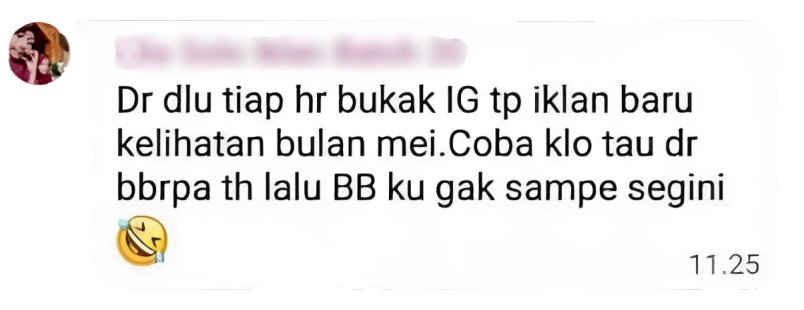
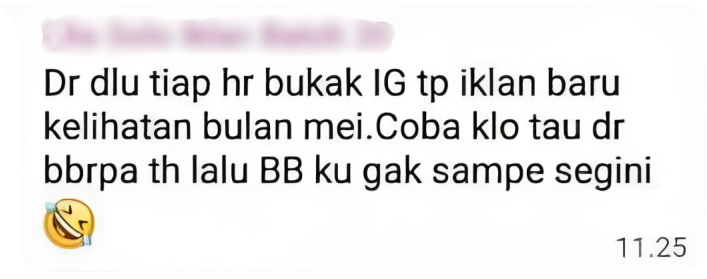
addition testimoni chat

diff --git a/media.css b/media.css
@@ -47,7 +47,6 @@
   .testimoni-chat{
     justify-content: flex-start;
     row-gap: 2rem;
-    padding-bottom: 5rem;
   }
   .about-txt-container{
     padding-bottom: 3rem;
@@ -198,7 +197,13 @@
     height: 8rem;
   }
   .chat2{
-    height: 11rem;
+    height: 14rem;
+  }
+  .chat3{
+    height: 14rem;
+  }
+  .chat4{
+    height: 18rem;
   }
   #kelas{
     padding: 2rem 1rem;
@@ -254,5 +259,17 @@
     padding: 0.8rem 1rem;
     font-size: 15px;
     margin: 0 1rem;
+  }
+  .chat1{
+    height: 4rem;
+  }
+  .chat2{
+    height: 10rem;
+  }
+  .chat3{
+    height: 10rem;
+  }
+  .chat4{
+    height: 14rem;
   }
 }

diff --git a/style.css b/style.css
@@ -415,12 +415,13 @@ nav li span {
   background-color: rgb(255, 255, 255);
 }
 .testimoni-chat {
-  margin-top: 6rem;
+  margin-top: 10rem;
   padding-bottom: 6rem;
   width: 100%;
   justify-content: space-around;
   display: flex;
   flex-wrap: wrap;
+  row-gap: 2rem;
 }
 .chat1 {
   overflow: hidden;
@@ -428,7 +429,15 @@ nav li span {
 }
 .chat2 {
   overflow: hidden;
-  height: 15rem;
+  height: 18rem;
+}
+.chat3 {
+  overflow: hidden;
+  height: 18rem;
+}
+.chat4 {
+  overflow: hidden;
+  height: 22rem;
 }
 
 /* Contact */

diff --git a/index.html b/index.html
@@ -269,9 +269,15 @@
           data-aos="slide-right" data-aos-duration="1000"
         />
         <img
-          src="Assets/04ae1c3e-fa2f-4fcc-a111-38111d94415e.png"
+          src="Assets/chat (1).png"
           alt=""
-          class="chat1"
+          class="chat3"
+          data-aos="slide-right" data-aos-duration="1000"
+        />
+        <img
+          src="Assets/chat (2).png"
+          alt=""
+          class="chat4"
           data-aos="slide-right" data-aos-duration="1000"
         />
       </div>
